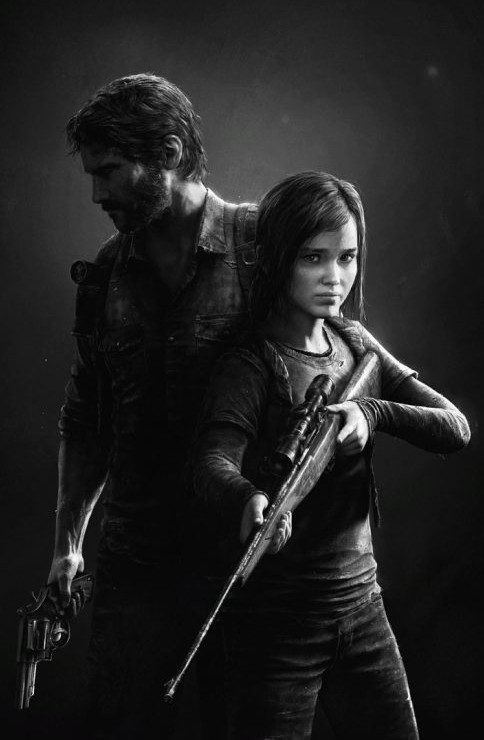
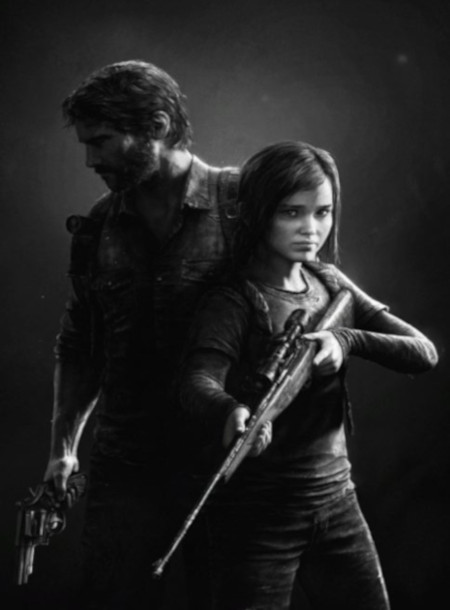
finalizado, imagens expansivas

diff --git a/img expansive/index.html b/img expansive/index.html
@@ -5,12 +5,13 @@
     <meta http-equiv="X-UA-Compatible" content="IE=edge">
     <meta name="viewport" content="width=device-width, initial-scale=1.0">
     <title>img expansive</title>
+    <link rel="stylesheet" href="stilo.css">
 </head>
 <body>
    <picture>
-       <source media="(min-width: 1050)" srcset="_imagens/stop.jpg" type="image/jpg">
-       <source media="(min-width: 750)" srcset="_imagens/stop-M.jpg" type="image/jpg">
-       <img src="_imagens/stop-P.jpg" alt="imagem grande">
+       <source media="(max-width: 850px)" srcset="_imagens/stop-p.jpg" type="image/jpg">
+       <source media="(max-width: 1350px)" srcset="_imagens/stop-m.jpg" type="image/jpg">
+       <img src="_imagens/stop-g.jpg" alt="imagem grande">
    </picture> 
 </body>
 </html>

diff --git a/img expansive/stilo.css b/img expansive/stilo.css
@@ -1,0 +1,6 @@
+*{
+    margin: 0;
+    padding: 0;
+    text-align: center;
+    background-color: #070707;
+}
